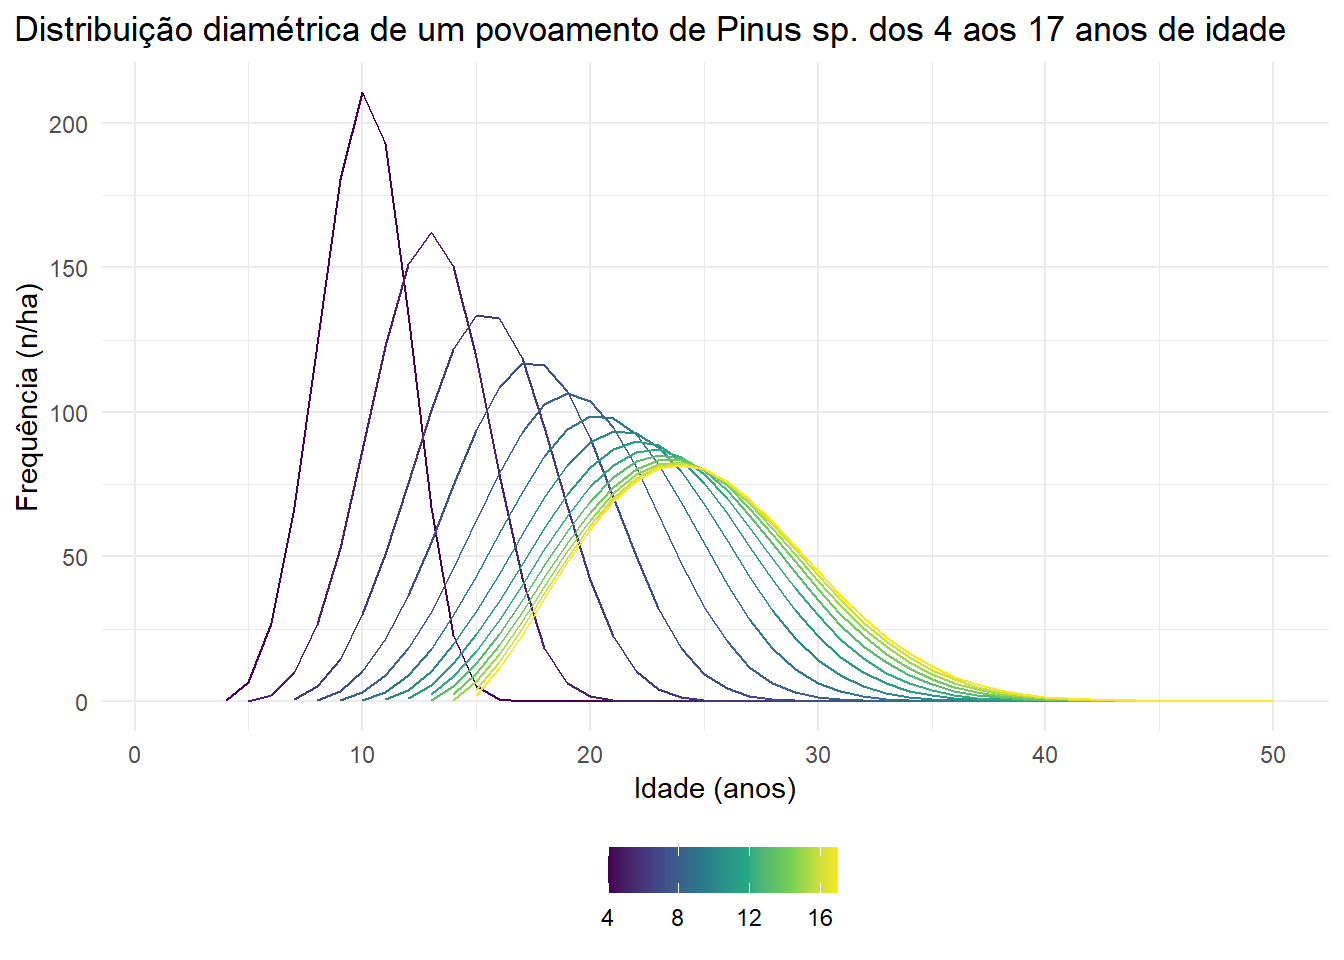
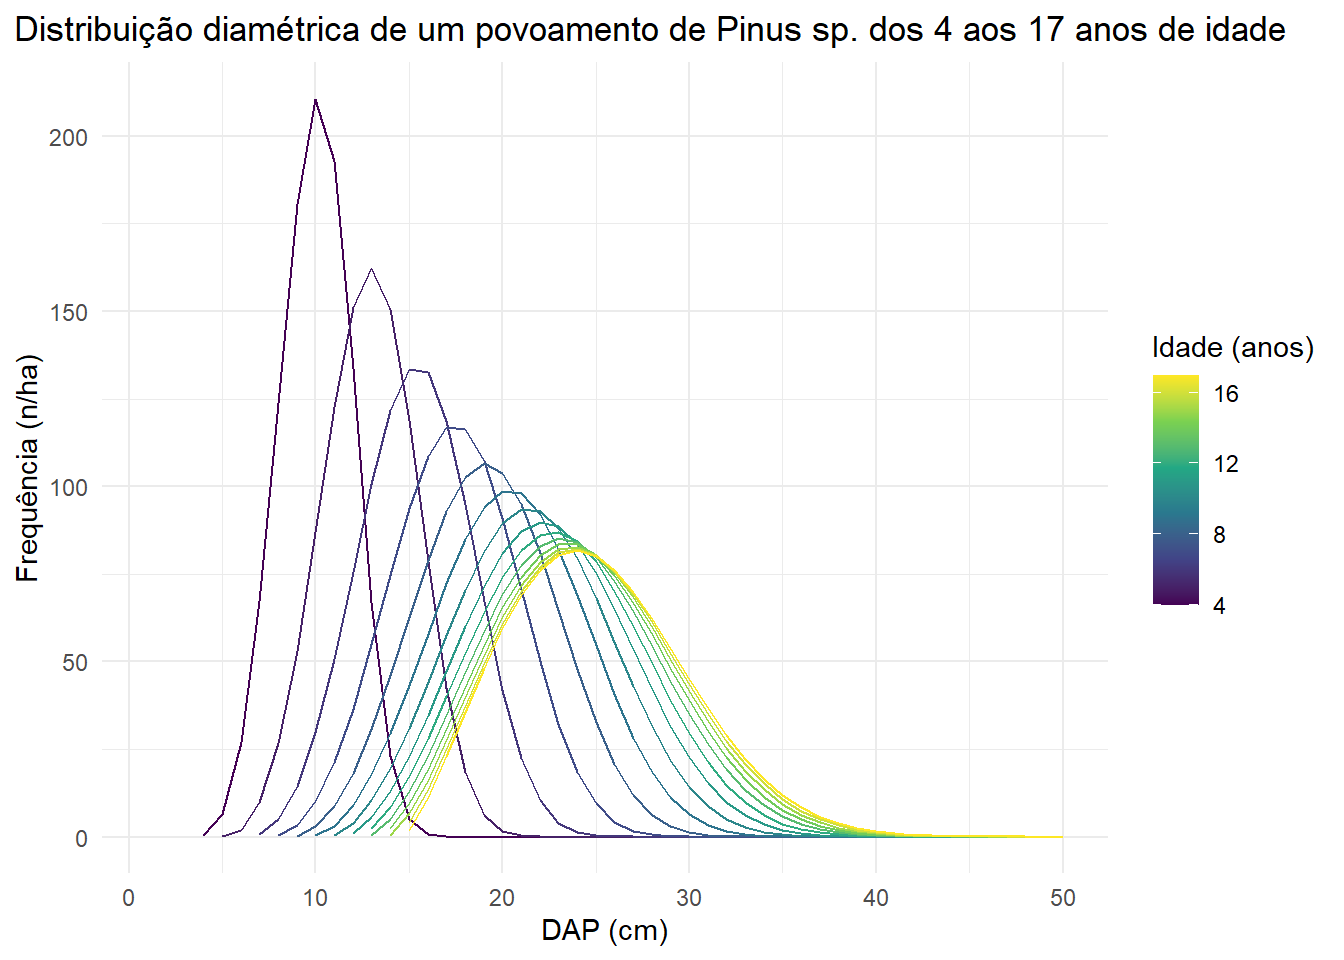
correção post dist weibull

diff --git a/content/post/funcao-de-weibull-com-3-parametros-bitruncada/index.pt.html b/content/post/funcao-de-weibull-com-3-parametros-bitruncada/index.pt.html
@@ -231,17 +231,33 @@ dist_diam_pred &lt;- dados_pred %&gt;%
 # visualizar estrutura diametrica ao longo do tempo
 ggplot(dist_diam_pred)+
   geom_line(aes(x = cdap, y = dist, group = Idade, color = Idade))+
-  labs(x = &#39;Idade (anos)&#39;,
+  labs(x = &#39;DAP (cm)&#39;,
        y = &#39;Frequência (n/ha)&#39;,
        title = &#39;Distribuição diamétrica de um povoamento de Pinus sp. dos 4 aos 17 anos de idade&#39;)+
-  scale_color_viridis_c()+
+  scale_color_viridis_c(name = &#39;Idade (anos)&#39;)+
   theme_minimal()+
   theme(
     plot.title.position = &#39;plot&#39;,
-    legend.title = element_blank(),
-    legend.position = &#39;bottom&#39;
+    legend.position = &#39;right&#39;
   )</code></pre>
 <p><img src="{{< blogdown/postref >}}index.pt_files/figure-html/unnamed-chunk-6-1.png" width="672" /></p>
 <p>O gráfico apresentado demonstra a flexibilidade da função de Weibull para representar a estrutura diamétrica de povoamentos florestais equiâneos em qualquer momento no tempo. Uma abordagem mais aprimorada envolve a aplicação de um modelo de sobrevivência para estimativa do número de árvores esperada em cada idade, a partir de uma densidade inicial.</p>
-<p>Ficamos por aqui. Até a próxima!</p>
+<style>
+body {
+text-align: justify}
+h1 {
+text-align: center}
+</style>
+<style type="text/css">
+
+body, td {
+   font-size: 14px;
+}
+code.r{
+  font-size: 14px;
+}
+pre {
+  font-size: 14px
+}
+</style>
 </div>
